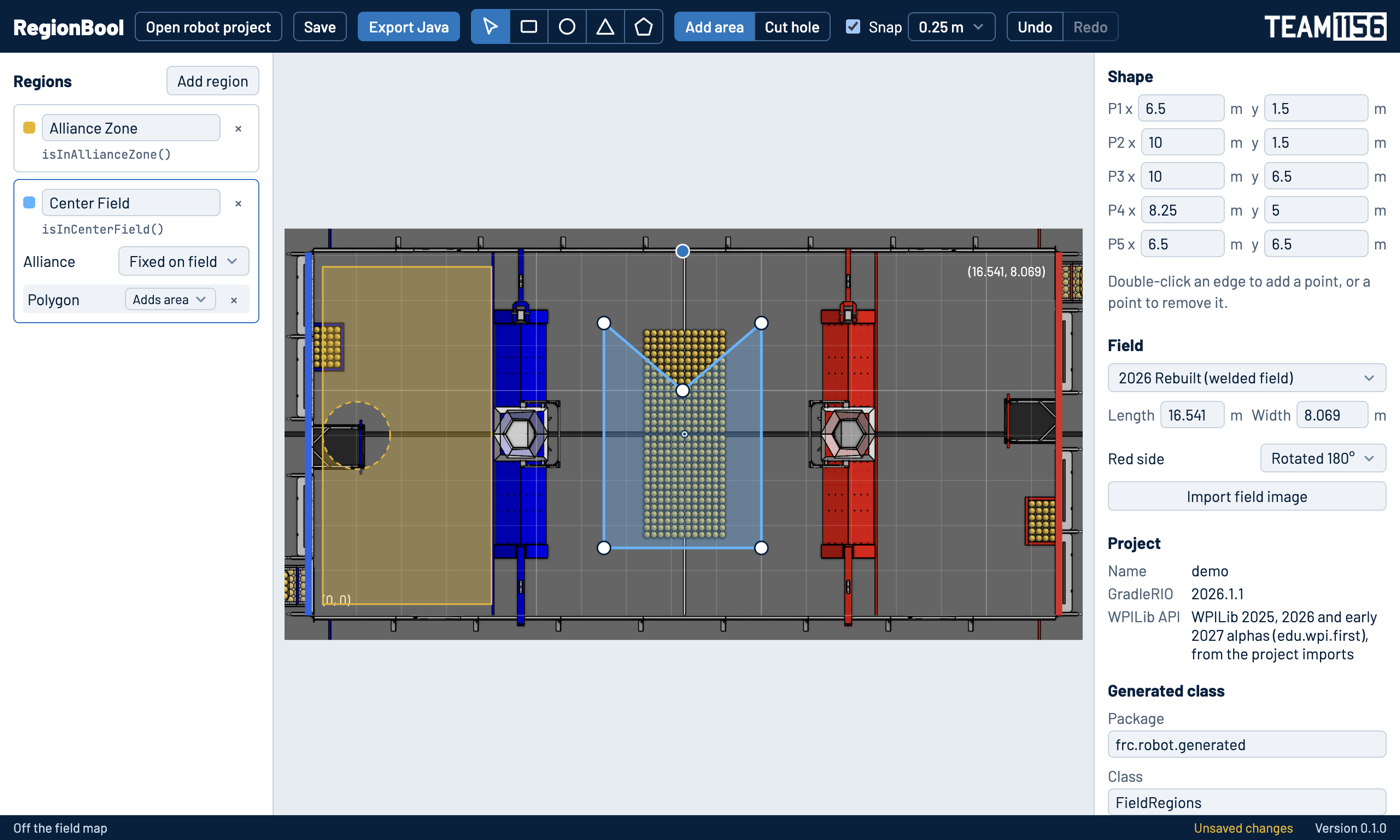
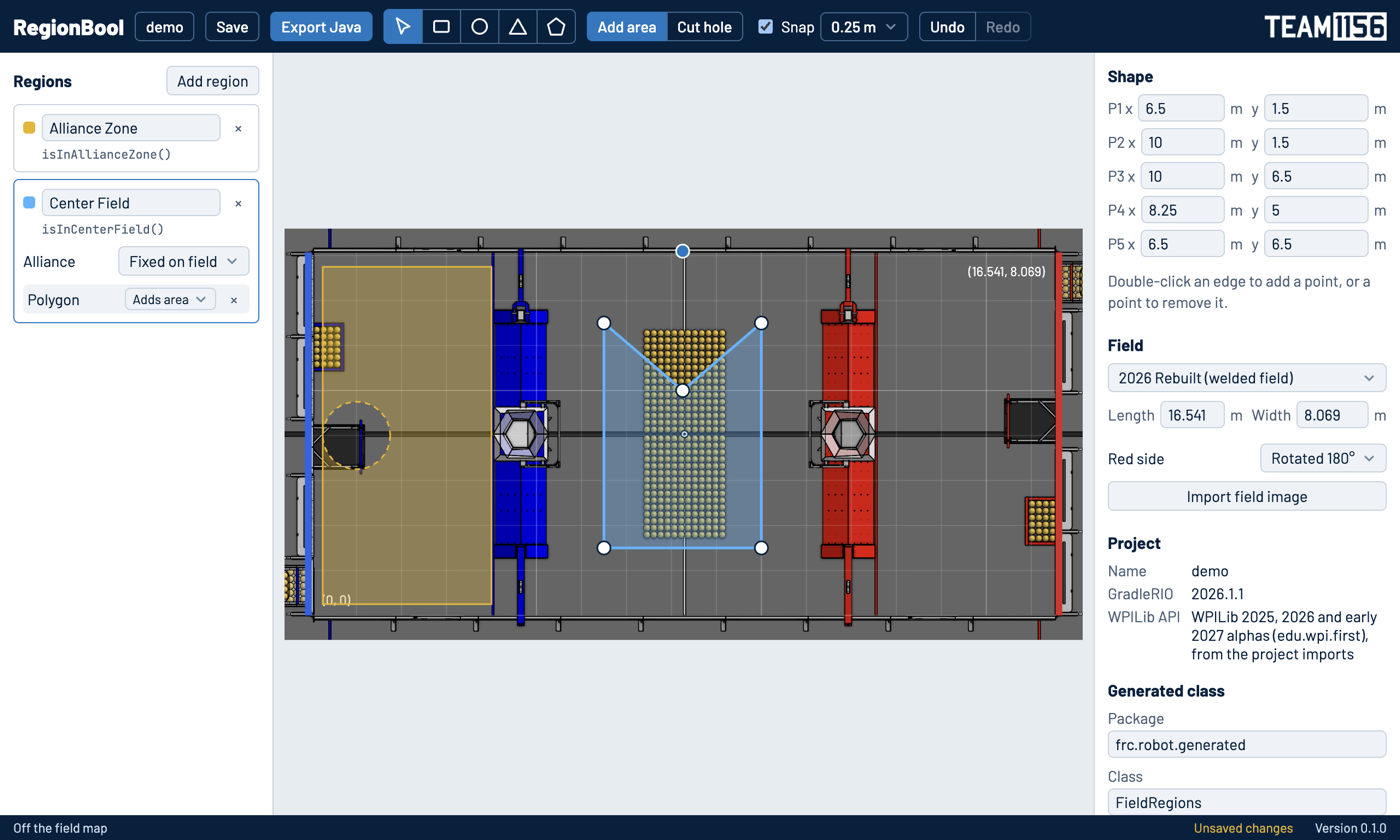
Show the project name on the open project button
Clicking it still opens a different project, and hovering shows the full path.

Changed region(s): [[0.0921, 0.0, 0.7986, 0.0619]]

diff --git a/tests/e2e/fields.spec.ts b/tests/e2e/fields.spec.ts
@@ -123,6 +123,20 @@ test('drawing still works over an image', async () => {
   expect(await numberValue('prop-cx')).toBe('5');
 });
 
+test('the open button shows the project name once one is open', async () => {
+  const button = page.getByRole('button', { name: 'Open robot project' });
+  await expect(button).toHaveText('Open robot project');
+  const root = createRobotProject();
+  await openProject(root);
+  await expect(button).toHaveText(basename(root));
+  await expect(button).toHaveAttribute('title', new RegExp('open a different project'));
+
+  // It still opens another project.
+  const other = createRobotProject();
+  await openProject(other);
+  await expect(button).toHaveText(basename(other));
+});
+
 test('the chosen field is saved with the project', async () => {
   const root = createRobotProject();
   await openProject(root);

diff --git a/src/renderer/panels/Toolbar.tsx b/src/renderer/panels/Toolbar.tsx
@@ -32,8 +32,20 @@ export function Toolbar({ onExport }: { onExport(): void }) {
   return (
     <header className="toolbar">
       <h1>RegionBool</h1>
-      <button type="button" onClick={() => void openProject()}>
-        Open robot project
+      <button
+        type="button"
+        className="project-button"
+        // The name keeps "Open robot project" for screen readers, since the visible text is just the folder.
+        aria-label={project ? `${project.name}. Open robot project` : 'Open robot project'}
+        title={
+          project
+            ? `${project.root}
+Click to open a different project`
+            : undefined
+        }
+        onClick={() => void openProject()}
+      >
+        {project ? project.name : 'Open robot project'}
       </button>
       <button
         type="button"

diff --git a/src/renderer/styles.css b/src/renderer/styles.css
@@ -164,6 +164,13 @@ code {
   color: var(--accent-fg);
 }
 
+.project-button {
+  max-width: 220px;
+  overflow: hidden;
+  text-overflow: ellipsis;
+  white-space: nowrap;
+}
+
 .team-logo {
   height: 26px;
   margin-left: auto;

diff --git a/README.md b/README.md
@@ -44,7 +44,7 @@ Builds aren't signed with a developer certificate yet, so your system will warn 
 
 ## How to use it
 
-1. **Open your robot project** with **Open robot project**. RegionBool works out which WPILib imports your project uses.
+1. **Open your robot project** with **Open robot project**. RegionBool works out which WPILib imports your project uses, and the button then shows the project's name. Click it again to open a different one.
 2. **Pick the field** in the right panel. 2025 and 2026 have separate welded and AndyMark fields, because their sizes differ. Check which your event uses.
 3. **Draw.** Pick a shape tool and draw on the field. Your first shape creates a region. Use **Cut hole** to subtract from it, and the panels on either side to rename it or type exact values.
 4. **Check it.** Compare the outlines with the field image, and type exact values when precision matters, since the image is a guide. Regions that flip are drawn on the blue side here, and the generated code moves them on red.
